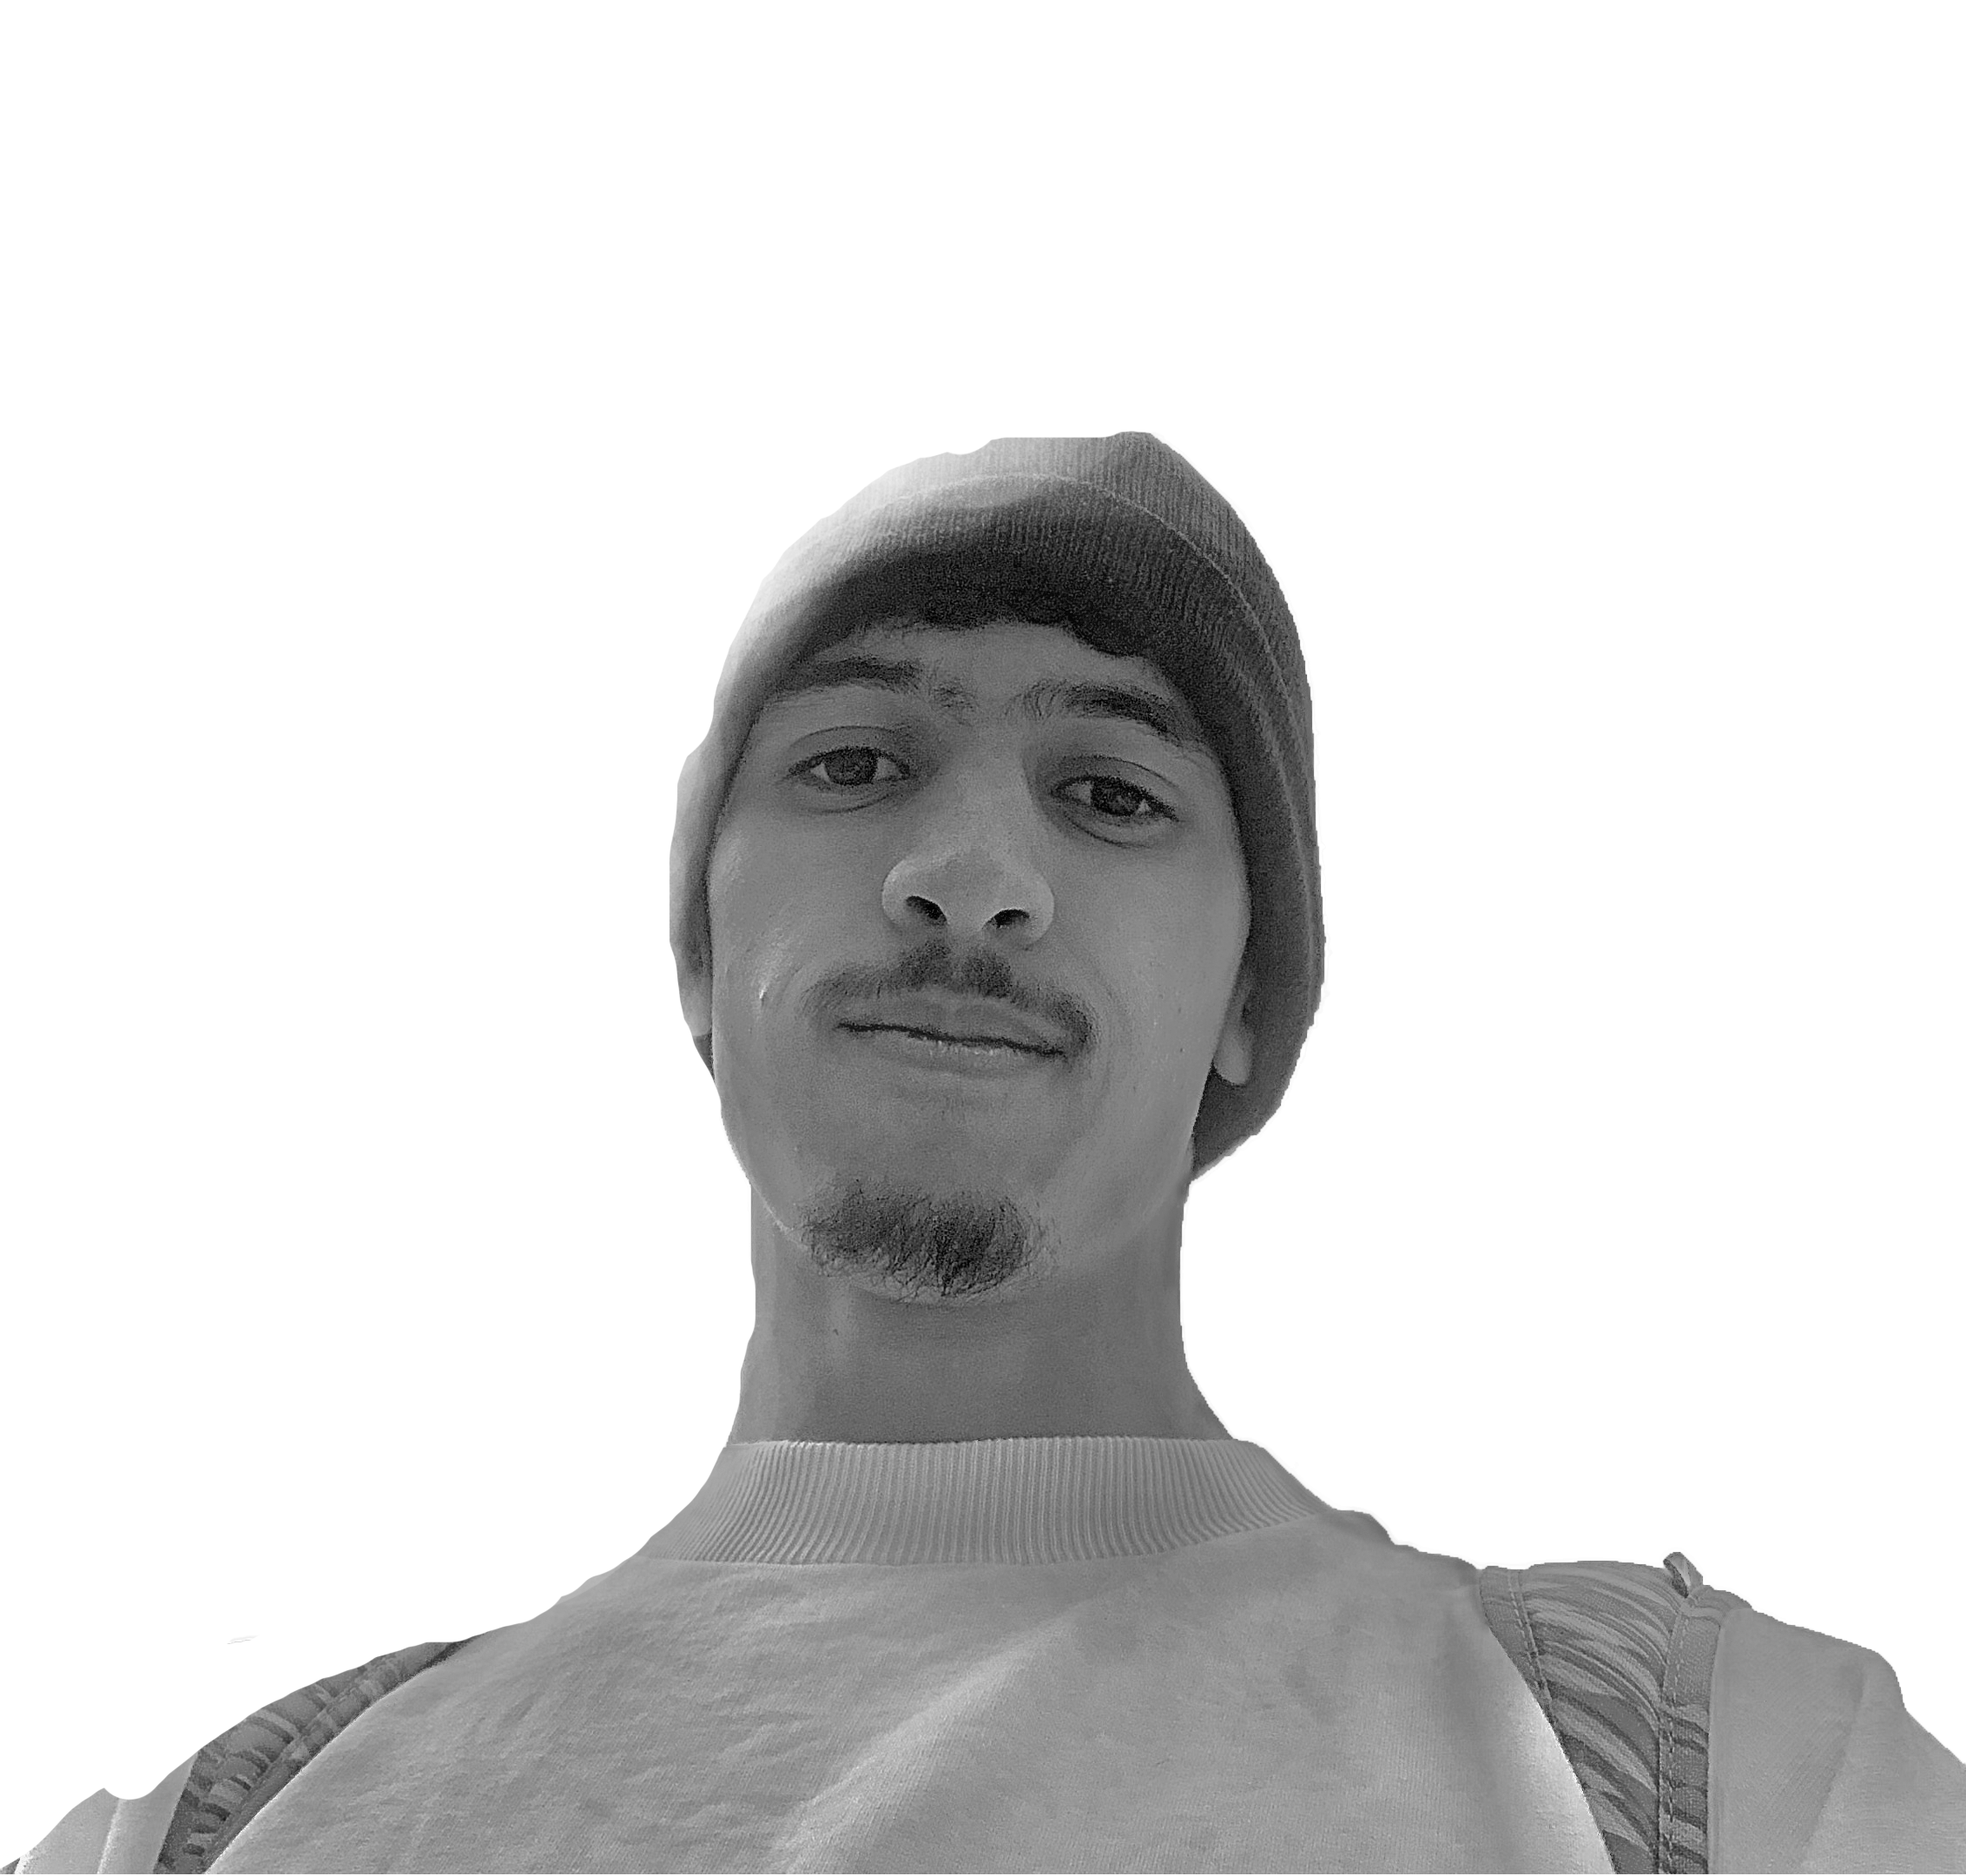
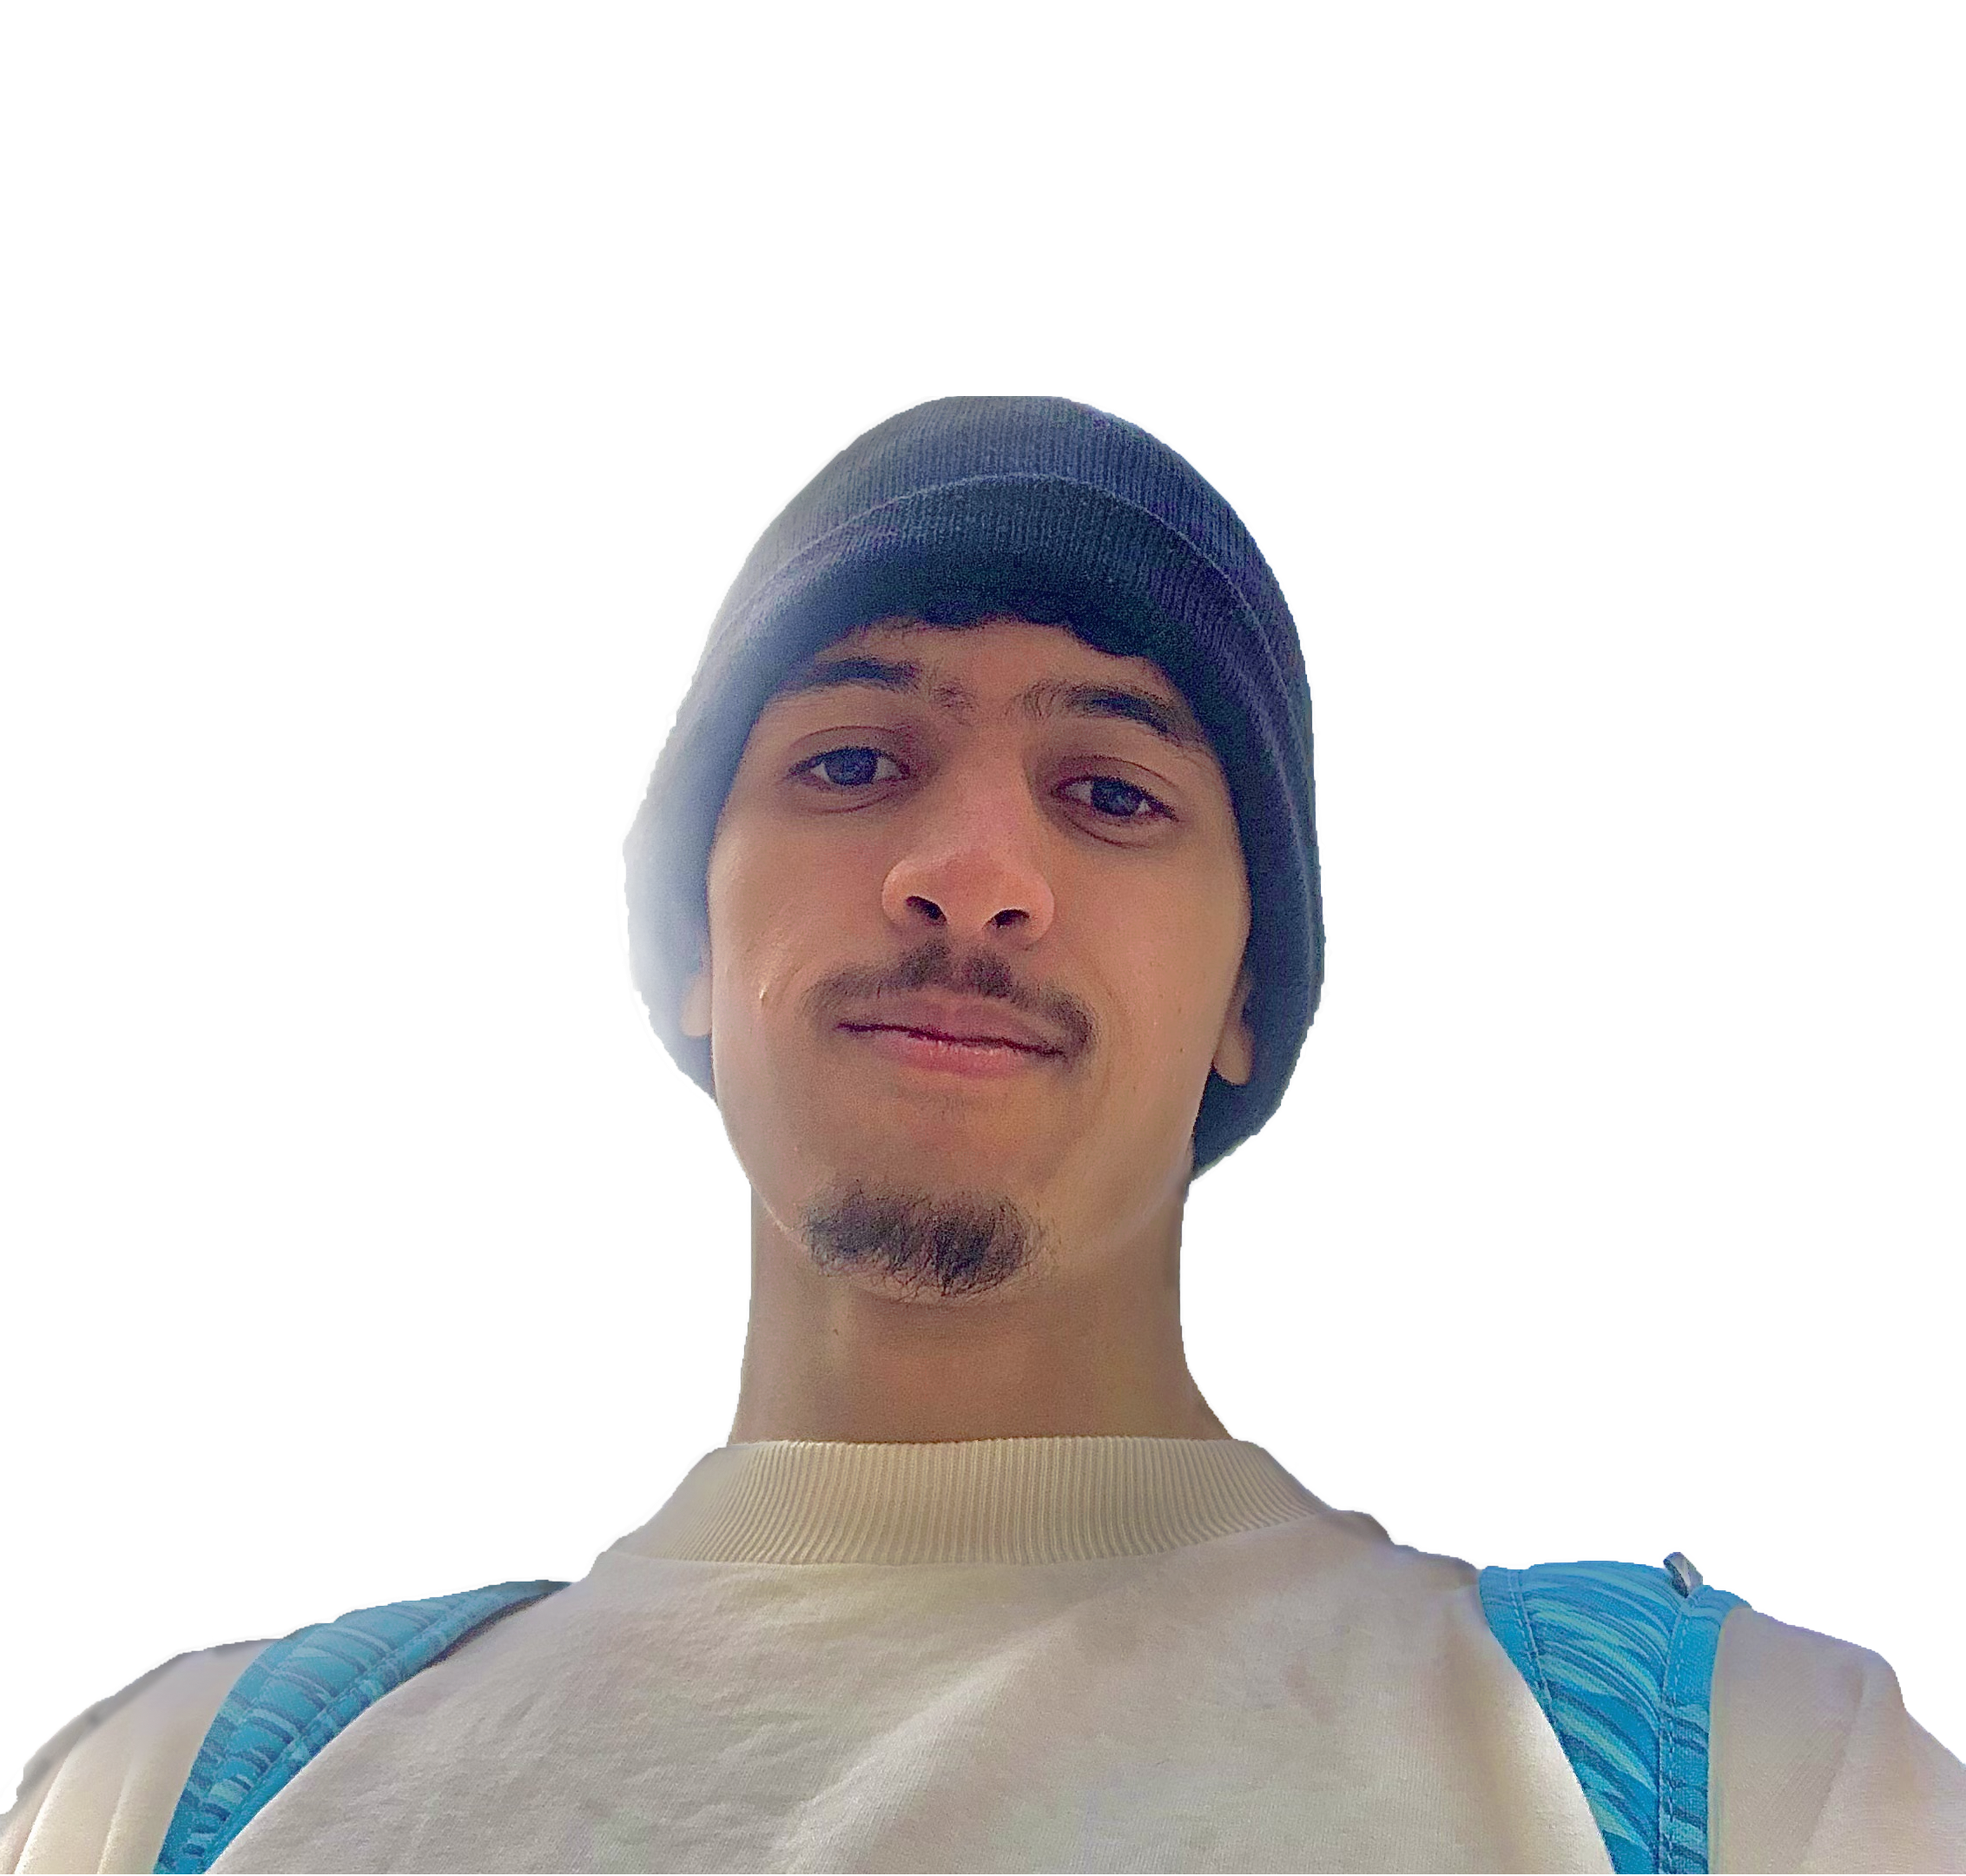
Faycal: change profil photo

Changed region(s): [[0.0, 0.1861, 0.6802, 1.0], [0.7111, 0.8065, 1.0, 1.0], [0.9276, 0.8685, 0.9585, 0.8995]]

diff --git a/src/components/Hero.jsx b/src/components/Hero.jsx
@@ -191,7 +191,7 @@ const Hero = () => {
               
             // }}
             // ={}
-            // style={{ filter: "grayscale(100%) " }}
+            style={{ filter: "grayscale(100%) " }}
             className=" absolute bottom-[-20px]  right-[-150px]  ml-[50vw] 
             lg:ml-[75vw] md:ml-[60vw] xmd:ml-[60vw] 2xl:ml-[83vw]
             sm:h-[90vh] md:h-[80vh] xl:h-[80vh]"
